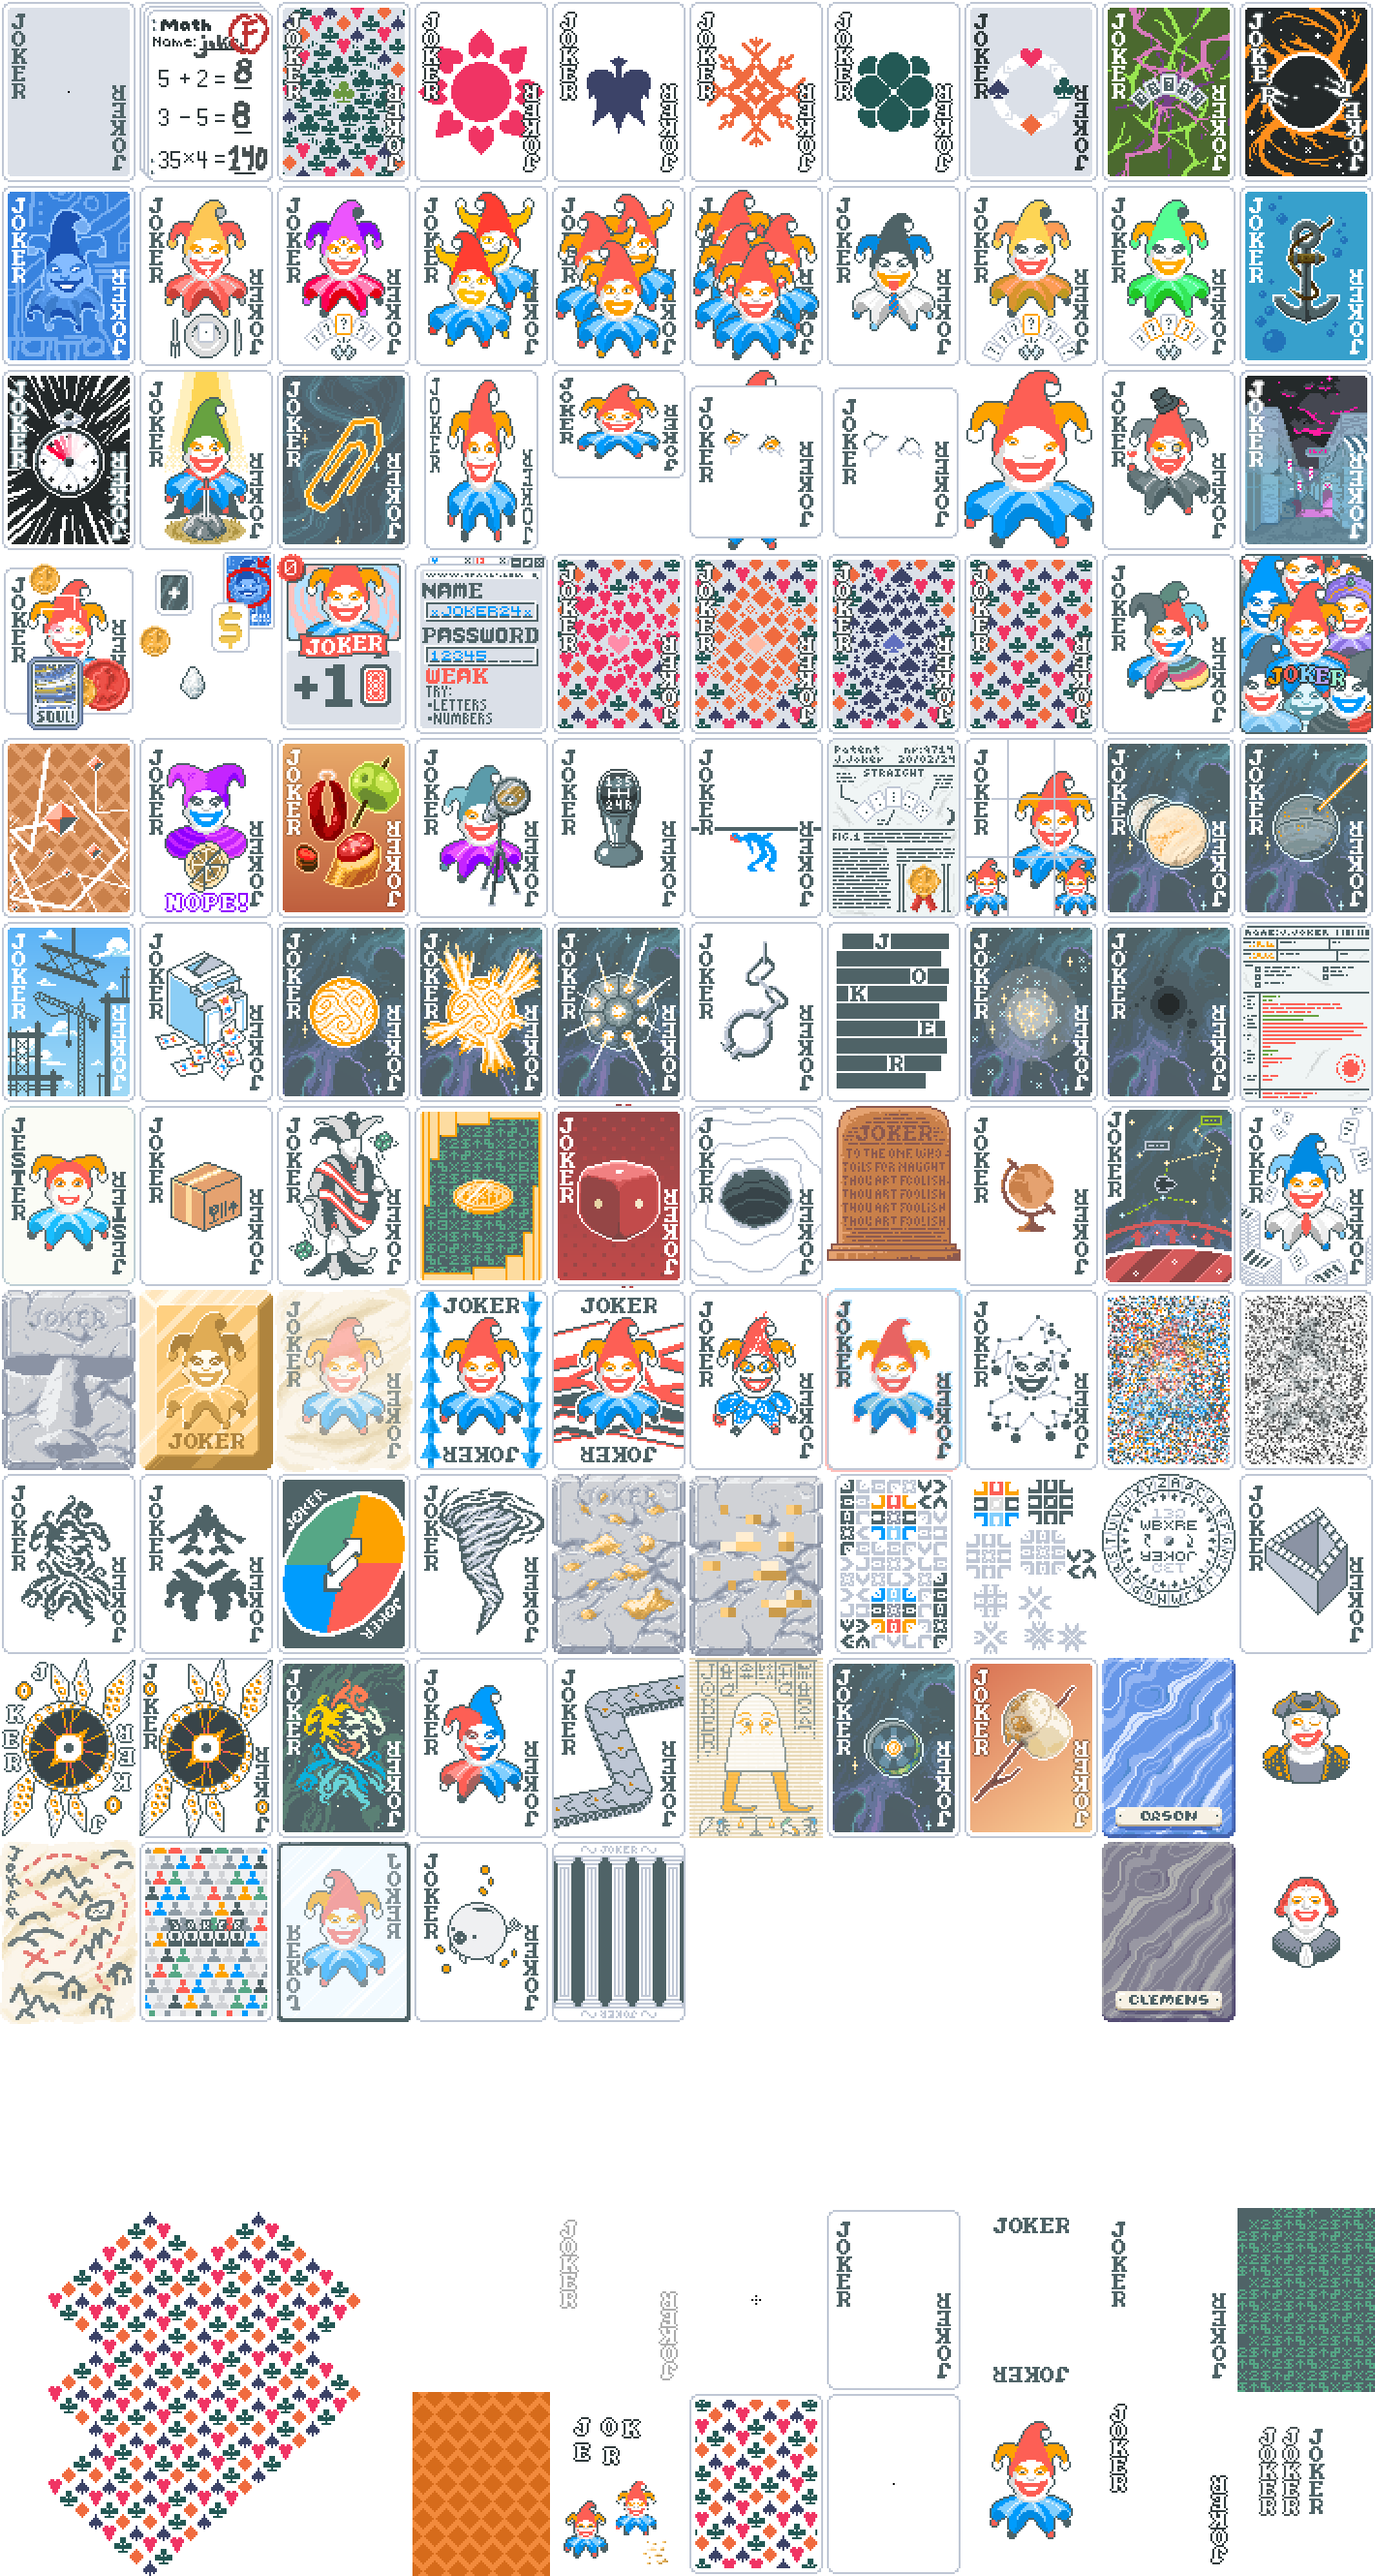
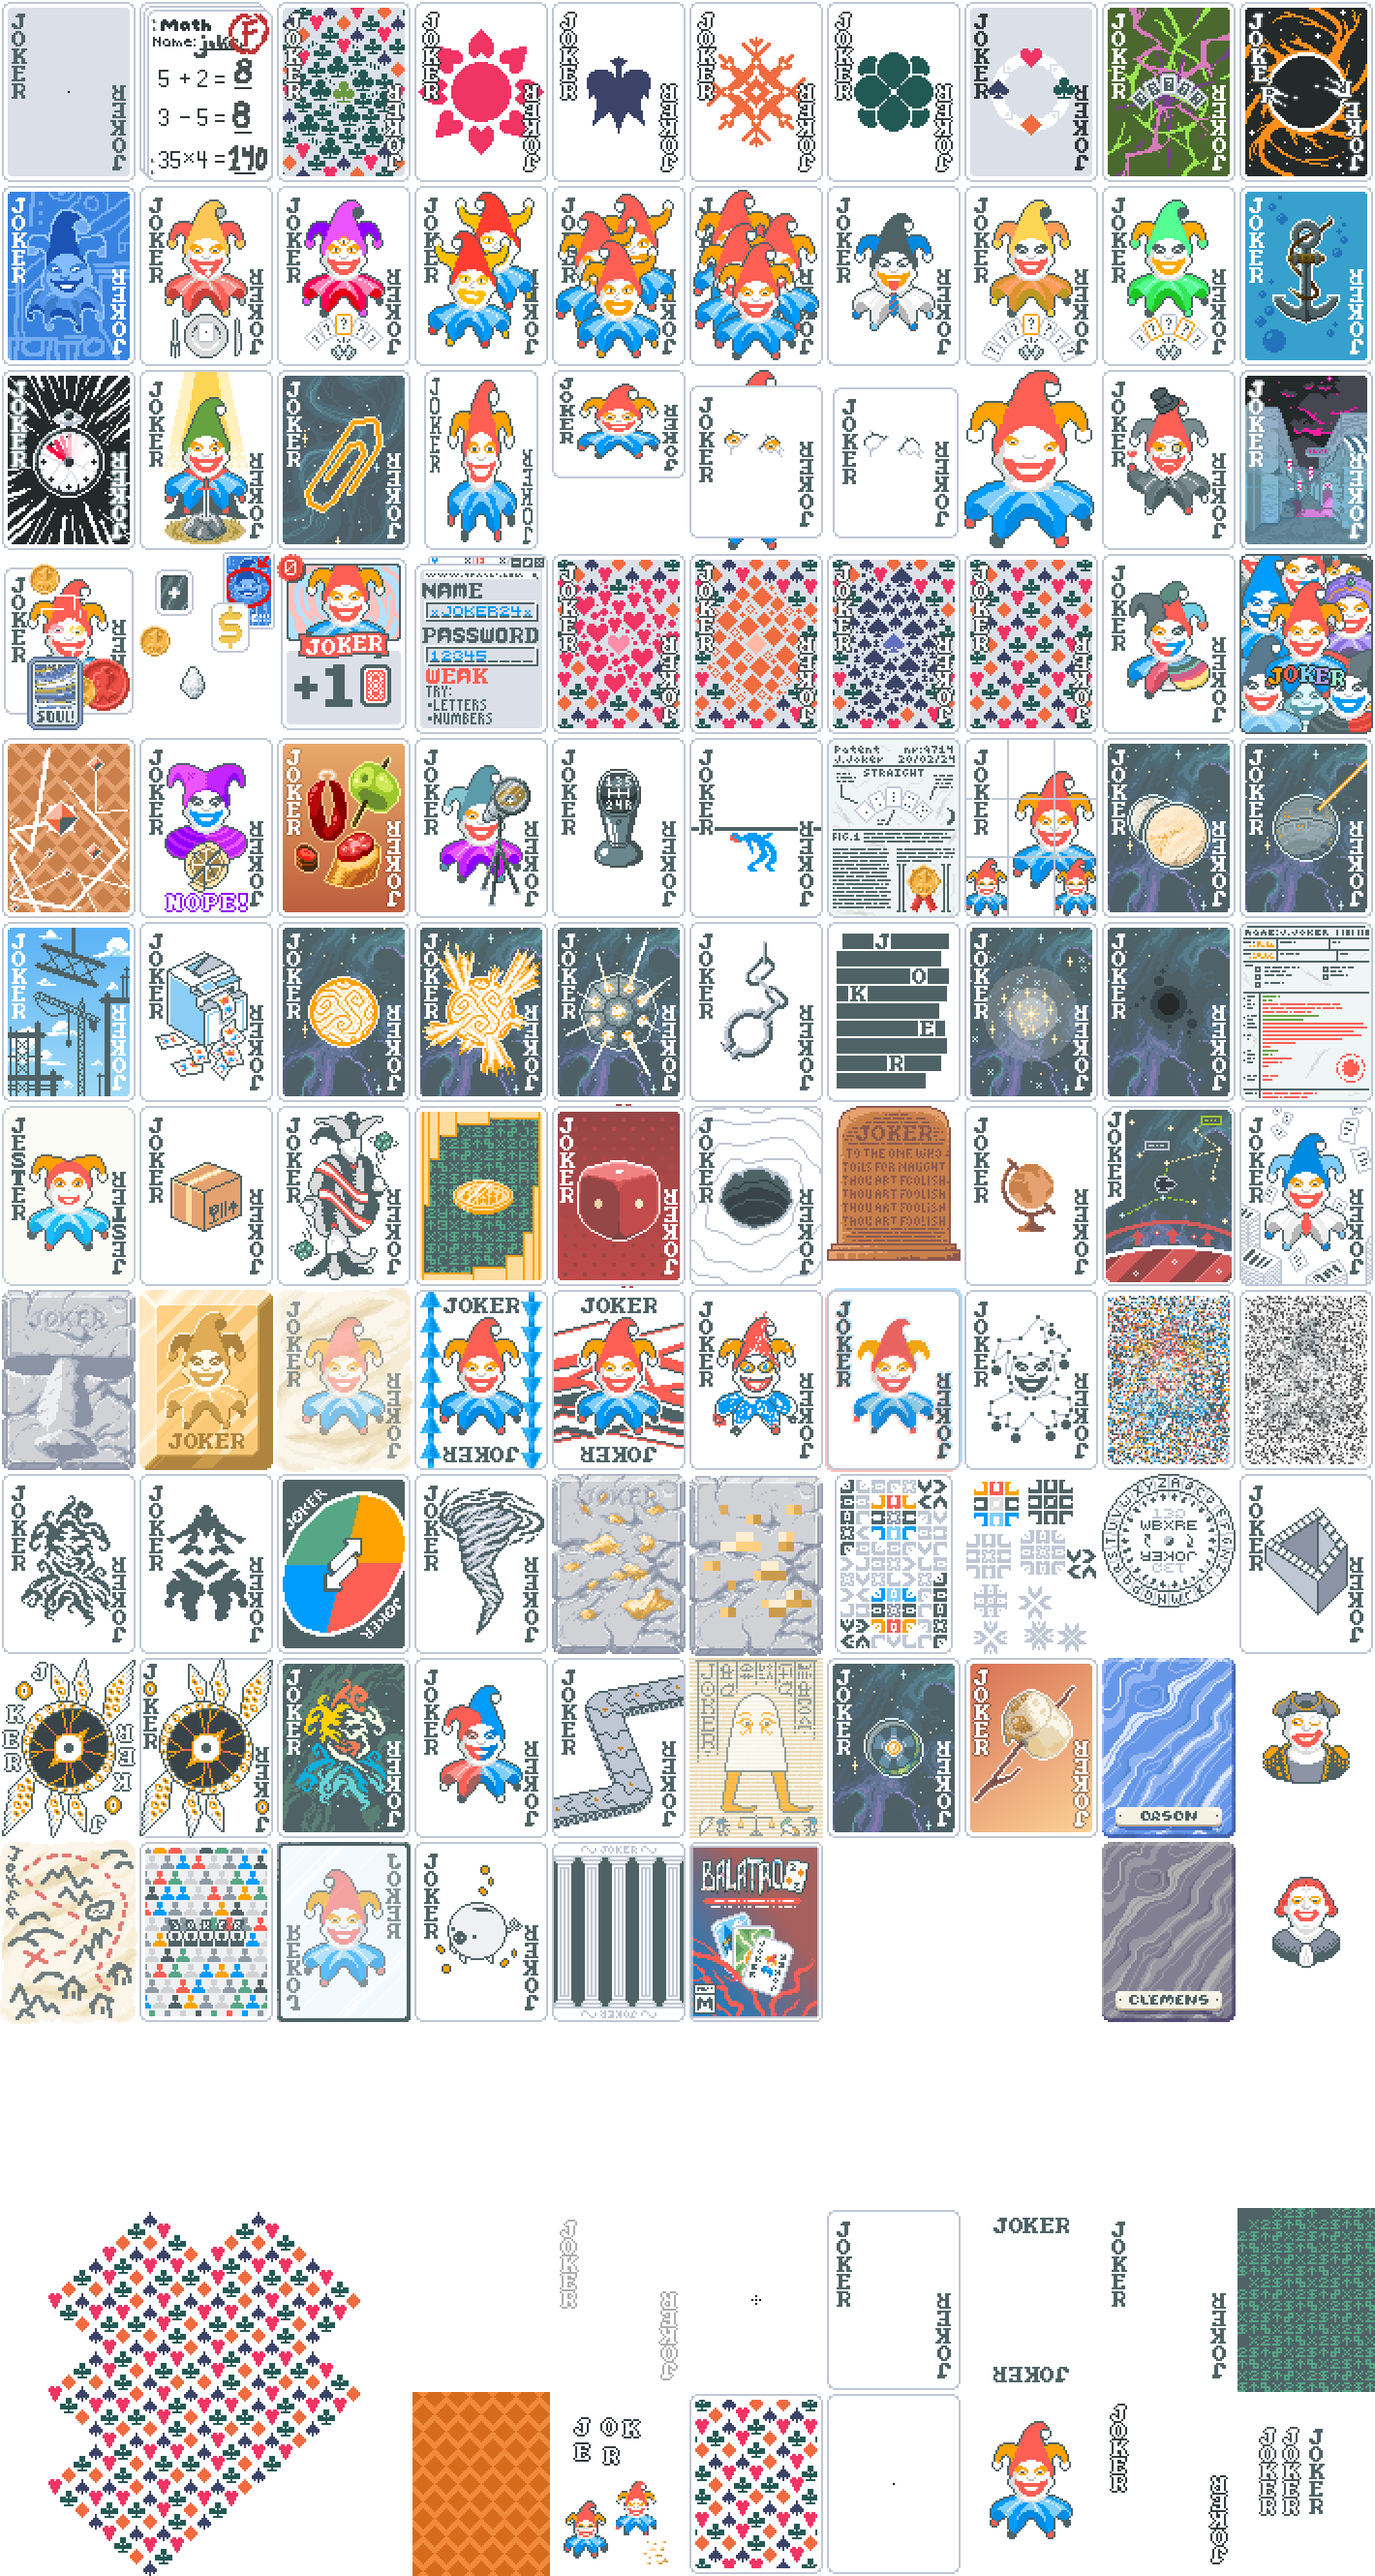
Add Sequel

Changed region(s): [[0.4958, 0.7177, 0.6197, 0.8113]]

diff --git a/web/addjokers.js b/web/addjokers.js
@@ -781,6 +781,14 @@ let jokers = [
     image_url: "img/j/pillars.png",
     rarity: "Common"
   },
+  {
+    name: "Sequel",
+    text: [
+        "Retrigger all played cards except the {C:attention}first{}",
+    ],
+    image_url: "img/j/sequel.png",
+    rarity: "Rare"
+  },
 
   // {
   //   name: "",
